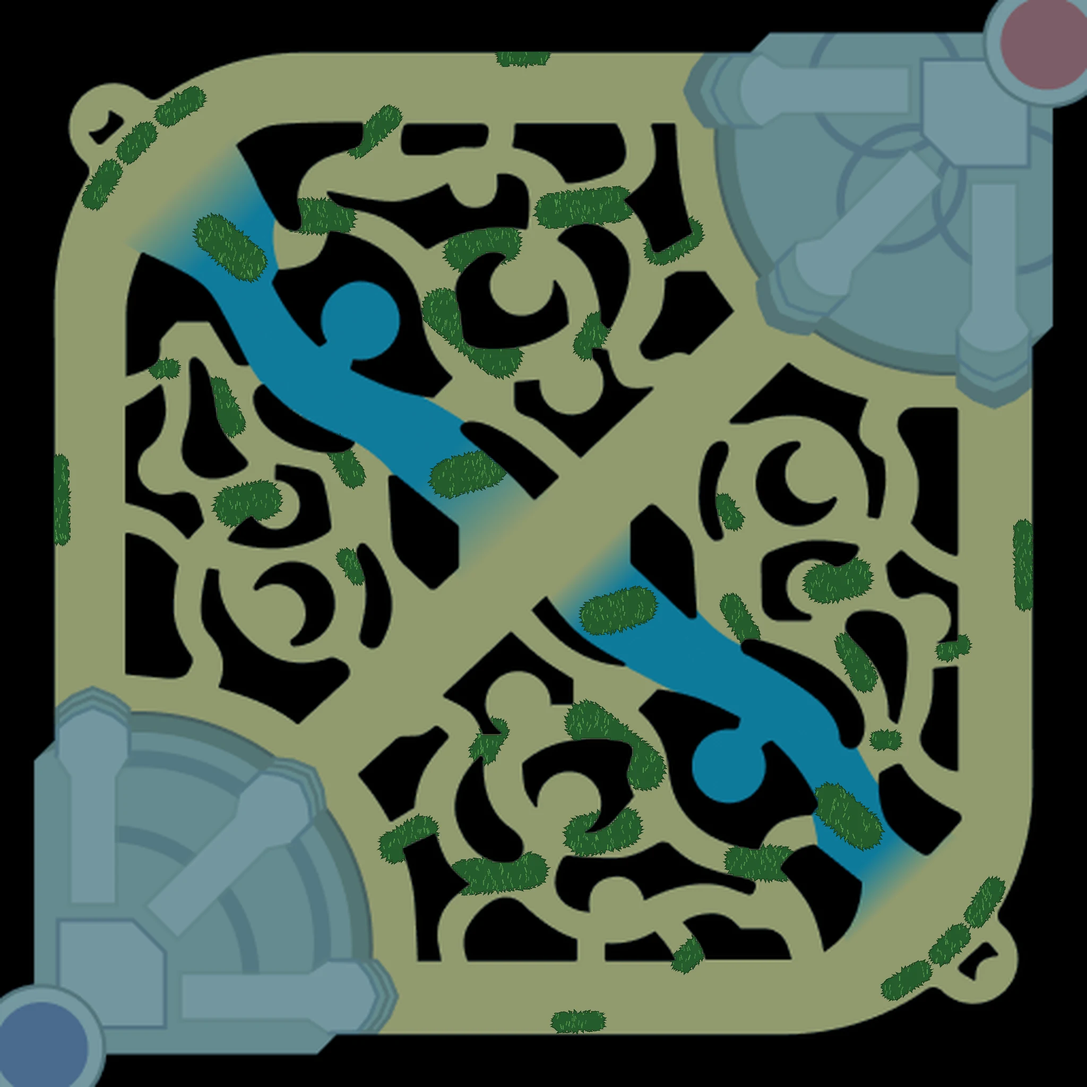
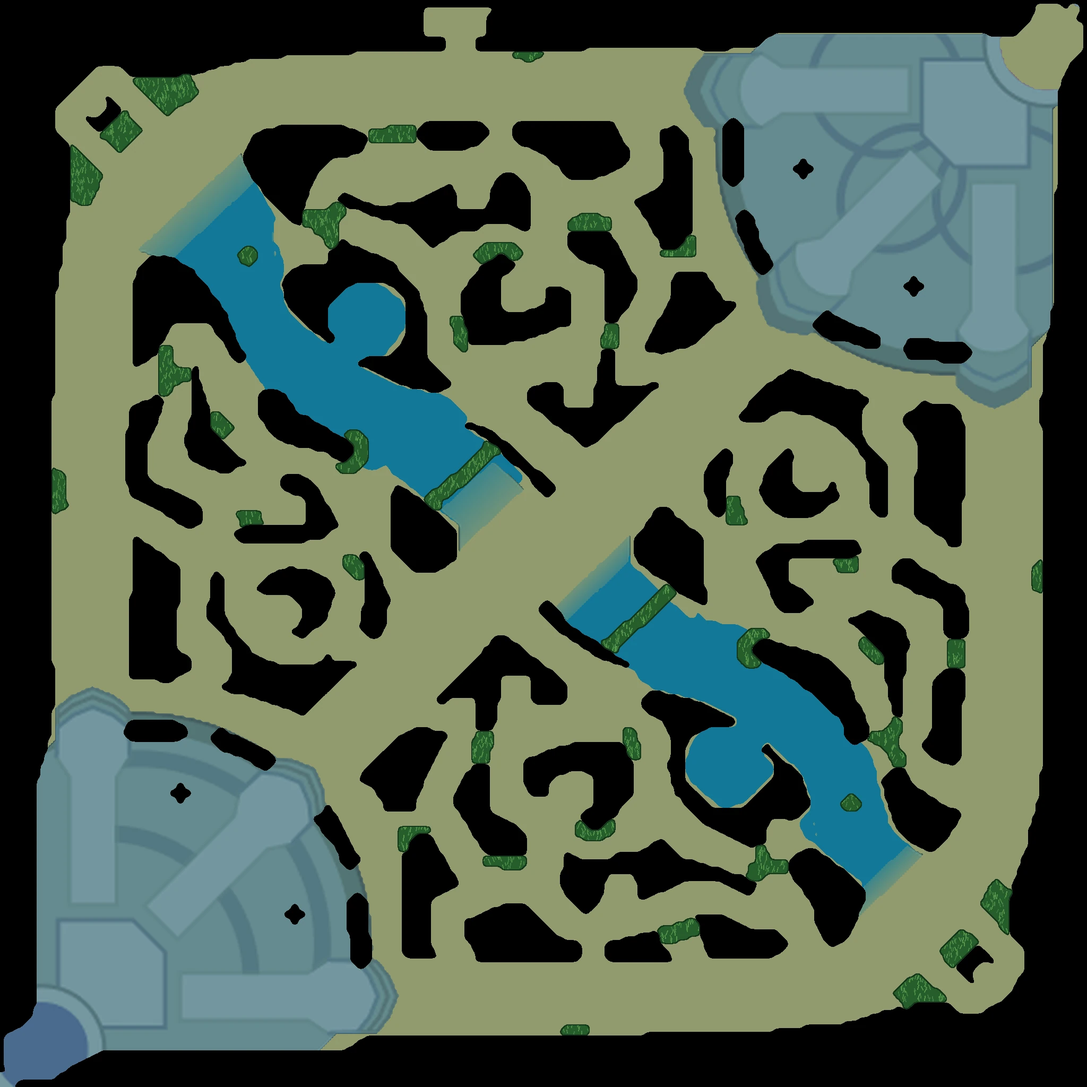
Publish draft board 2026-11-18 14:51 KST

diff --git a/draft/js/vision.js b/draft/js/vision.js
@@ -1,8 +1,8 @@
 // 시야 공부 자료 — 출처: Destiny(데스티니) 「와드 강의 【2026년 최신판】」 https://www.youtube.com/watch?v=ipObXSCeb-8 (5분 49초)
 // 11-18 두 번째 점검: 영상 1080p 화면에서 미니맵 카메라 상자(자동 판독)와 화면 속 와드·커서 위치를 맞춰 자리를 다시 잼.
 //  - 판독 기준: 영상 미니맵의 포탑 6개를 공식 위치에 맞춰 보정(오차 약 1%), 화면 1% ≈ 69px, 가장자리는 원근 보정.
-//  - 맵 그림: img/map-sr.webp = 공식 미니맵(map11) + 부쉬 39개. 부쉬 자리는 리그 위키 부쉬 위치도(2024),
-//    모양은 Riot 풀 색 텍스처(grasstint_srx)에서 방향·길이를 잰 뒤 맵 대칭으로 평균, 바텀·탑 코너 3개는 영상 기준 손 보정. 만드는 법: tools/map-bushes/
+//  - 맵 그림: img/map-sr.webp = 게임 실제 이동·시야 격자(AIPath_SRX_3 내비게이션 그리드, 칸 하나 = 게임 거리 50)의 벽·부쉬·강을 그대로 그린 것.
+//    격자 출처: FrankTheBoxMonster/LoL-NGRID-converter SR_2024(시즌 14 맵 개편판). 기지 그림만 공식 미니맵(map11). 만드는 법: tools/map-bushes/
 //  - 게임 속 시각은 영상에서 정확히 확인된 것이 아니면 숫자로 쓰지 않고 말로 쓴다.
 //  - 레드 진영 변형은 영상에서 확인하지 못해 뺐다(영상 설명대로 "레드는 반대편 같은 원리"만 글로).
 // 좌표: 미니맵 가로·세로 %. 블루 진영 기준. 거리: 맵 1% ≈ 148(게임 거리). 와드 시야 900 ≈ 6%.
@@ -23,12 +23,12 @@ window.VISION = {
   ],
   // 자리(번호) — 모두 영상 장면에서 잰 자리(오차 1~2%)
   spots: [
-    { id: 1, x: 87.2, y: 86.1, name: "바텀 코너 작은 1자 부쉬(강 쪽)" },
-    { id: 2, x: 68, y: 78.9, name: "바텀 삼거리 부쉬 왼쪽 구석" },
-    { id: 3, x: 59.3, y: 63.9, name: "우리 칼날부리 입구" },
+    { id: 1, x: 87.5, y: 86.5, name: "바텀 코너 작은 1자 부쉬(강 쪽)" },
+    { id: 2, x: 69.2, y: 79.7, name: "바텀 삼거리 부쉬 왼쪽 구석" },
+    { id: 3, x: 59, y: 63.8, name: "우리 칼날부리 입구" },
     { id: 4, x: 67.5, y: 57.1, name: "용 위쪽 요정 시야 자리" },
     { id: 9, x: 77.3, y: 72.8, name: "용 아래쪽 요정 시야 자리" },
-    { id: 11, x: 69.9, y: 55.9, name: "요정 자리 옆 벽 뒤" },
+    { id: 11, x: 69.5, y: 60.3, name: "요정 자리 아래 갈고리 부쉬 안쪽" },
     { id: 6, x: 50.4, y: 53.4, name: "미드 아래쪽 강 입구(낚시 와드)" },
     { id: 10, x: 60.8, y: 61.4, name: "용 가는 길목(상대 핑크에 안 보이는 자리)" },
     { id: 7, x: 68.1, y: 37.5, name: "상대 정글 깊은 와드" },
@@ -48,8 +48,8 @@ window.VISION = {
       text: "용 아래쪽 강의 요정 시야 자리. 박으면 용 둘레 강이 넓게 보인다. 위쪽 자리와 둘 중 하나." },
     { spot: 3, when: "첫 귀환(첫 집) 때 — 우리가 뒤지고 상대가 칼날부리 카정을 노릴 때", t: 81, phase: "back", tag: "def", type: "ctrl", roles: ["S", "J"], go: ["u3", 2], title: "첫 귀환 제어 와드 — 뒤질 때",
       text: "뒤질 때는 우리 칼날부리를 지키는 입구에 박는다. 앞선 상대는 칼날부리 카정을 자주 온다." },
-    { spot: 11, when: "라인전 이후 대치 — 상대가 요정 시야 자리에 제어 와드를 박았을 때", t: 142, phase: "mid", tag: "agg", type: "ward", roles: ["S"], go: ["u4", 0], title: "요정 시야와 벽 — 상대 핑크에 안 보이는 와드",
-      text: "상대가 요정 자리에 박은 제어 와드는 벽에 가린 바로 옆 와드를 못 본다. 이 점을 이용해 낚시한다. 부쉬 와드는 양 끝이 다 보이도록 중간쯤까지 깊숙이 박는다." },
+    { spot: 11, when: "라인전 이후 대치 — 상대가 요정 시야 자리에 제어 와드를 박았을 때", t: 142, phase: "mid", tag: "agg", type: "ward", roles: ["S"], go: ["u4", 0], title: "요정 자리 핑크에 안 보이는 와드",
+      text: "상대가 요정 자리에 박은 제어 와드는 부쉬 밖에 있어서, 바로 아래 갈고리 부쉬 안쪽(벽에 붙은 쪽) 와드를 못 본다 — 부쉬 밖에서는 부쉬 안이 안 보인다. 이 점을 이용해 낚시한다. 부쉬 와드는 양 끝이 다 보이도록 중간쯤까지 깊숙이 박는다." },
     { spot: 6, when: "라인전 이후 대치 — 블루로 뒤질 때(레드는 반대편)", t: 203, phase: "mid", tag: "agg", type: "ward", roles: ["S"], go: ["u4", 2], title: "뒤질 때 낚시 와드",
       text: "상대는 보통 강 1자 부쉬에 핑크를 박고 그 뒤에서 그랩을 기다린다. 블루일 때 뒤지면 미드 아래쪽 강 입구에 와드 — 그 핑크에 안 보이고 기다리는 상대가 보인다. 높은 티어일수록 잘 먹힌다." },
     { spot: 10, when: "오브젝트 싸움 직전 — 불리해서 길을 뚫기 어려울 때", t: 244, phase: "obj", tag: "obj", type: "ward", roles: ["S", "J"], go: ["u5", 0], title: "불리한 오브젝트 싸움 — 진입로 와드",
@@ -72,33 +72,33 @@ window.VISION = {
         a: { sup: { c: "Nautilus", s: "us", at: [82, 90.8], via: [[14, 86], [40, 91.5]] }, adc: { c: "Kaisa", s: "us", at: [79, 91.5], via: [[13, 88], [40, 92]], d: 0.3 } } },
       { t: 21, cap: "코너 작은 1자 부쉬에 와드", say: "바텀 코너 안쪽에 부쉬가 3개 있습니다. 아래 부쉬 끝까지 걸어가서, 가운데 작은 1자 부쉬의 강 쪽에 박습니다. 부쉬 밖으로 나가지 않으니 안전합니다.", cam: [85, 86, 20],
         a: { sup: { c: "Nautilus", s: "us", at: [85, 89], via: [[83.4, 90.4]] }, adc: { c: "Kaisa", s: "us", at: [79, 91.5] } },
-        w: { w1: { at: [87.2, 86.1], k: "ward", s: "us", d: 1.1 } }, l: [{ at: [90.4, 88.6], t: "작은 1자 부쉬", d: 0.4 }] },
+        w: { w1: { at: [87.5, 86.5], k: "ward", s: "us", d: 1.1 } }, l: [{ at: [90.4, 88.6], t: "작은 1자 부쉬", d: 0.4 }] },
       { t: 23, cap: "상대가 오는 길을 보고 → 라인으로 돌아가 견제", say: "와드 시야로 상대 바텀 듀오가 들어오는 것을 확인하고, 바로 라인으로 돌아가 견제합니다.", cam: [86, 85, 22],
         a: { sup: { c: "Nautilus", s: "us", at: [82, 90.8], d: 0.9 }, adc: { c: "Kaisa", s: "us", at: [79, 91.5] }, zeri: { c: "Zeri", s: "them", at: [90.4, 80.6], via: [[93, 70]] }, lulu: { c: "Lulu", s: "them", at: [89.2, 82.2], via: [[92, 72]], d: 0.2 } },
-        w: { w1: { at: [87.2, 86.1], k: "ward", s: "us" } } },
+        w: { w1: { at: [87.5, 86.5], k: "ward", s: "us" } } },
       { t: 26, cap: "「강 가운데에 박으면 더 많이 보이지 않나?」", say: "가운데까지 박으면 상대가 돌아오는 길이 더 보이는 건 맞습니다. 하지만 두 가지 문제가 있습니다.", cam: [84, 83, 24],
         a: { sup: { c: "Nautilus", s: "us", at: [82, 90.8] }, adc: { c: "Kaisa", s: "us", at: [79, 91.5] }, zeri: { c: "Zeri", s: "them", at: [90.4, 80.6] }, lulu: { c: "Lulu", s: "them", at: [89.2, 82.2] } },
-        w: { w1: { at: [87.2, 86.1], k: "ward", s: "us" }, w2: { at: [81, 80.5], k: "ward", s: "us", ghost: 1, d: 0.4 } }, l: [{ at: [81, 77.5], t: "강 가운데", d: 0.4 }] },
+        w: { w1: { at: [87.5, 86.5], k: "ward", s: "us" }, w2: { at: [81, 80.5], k: "ward", s: "us", ghost: 1, d: 0.4 } }, l: [{ at: [81, 77.5], t: "강 가운데", d: 0.4 }] },
       { t: 39, cap: "문제 ① 원거리 챔프에 바로 지워진다", say: "제리처럼 사거리가 긴 상대는 라인에서 조금만 걸어 나와 가운데 와드를 바로 지웁니다.", cam: [84, 83, 24],
         a: { sup: { c: "Nautilus", s: "us", at: [82, 90.8] }, adc: { c: "Kaisa", s: "us", at: [79, 91.5] }, zeri: { c: "Zeri", s: "them", at: [85, 79.6] }, lulu: { c: "Lulu", s: "them", at: [89.2, 82.2] } },
-        w: { w1: { at: [87.2, 86.1], k: "ward", s: "us" }, w2: { at: [81, 80.5], k: "ward", s: "us", ghost: 1, x: 1, d: 1.3 } }, p: [{ pts: [[90.4, 80.6], [85, 79.6]], k: "them" }], l: [{ at: [81, 77.3], t: "바로 지워짐", k: "bad", d: 1.4 }] },
+        w: { w1: { at: [87.5, 86.5], k: "ward", s: "us" }, w2: { at: [81, 80.5], k: "ward", s: "us", ghost: 1, x: 1, d: 1.3 } }, p: [{ pts: [[90.4, 80.6], [85, 79.6]], k: "them" }], l: [{ at: [81, 77.3], t: "바로 지워짐", k: "bad", d: 1.4 }] },
       { t: 47, cap: "문제 ② 박으러 나가다 3:2 인베에 잡힌다", say: "가운데에 박으려면 부쉬 밖 강으로 나가야 합니다. 2:2면 괜찮지만 상대 정글까지 3명이 오면 거기서 죽습니다.", cam: [82, 82, 26],
         a: { sup: { c: "Nautilus", s: "us", at: [81.6, 81.6], via: [[84, 86]] }, adc: { c: "Kaisa", s: "us", at: [79, 91.5] }, zeri: { c: "Zeri", s: "them", at: [84.4, 80.4], d: 0.6 }, lulu: { c: "Lulu", s: "them", at: [84, 82.6], d: 0.6 }, jg: { c: "MonkeyKing", s: "them", at: [80.3, 79.6], via: [[75.5, 71]], d: 0.5 } },
         p: [{ pts: [[75.5, 71], [78.5, 76], [80.3, 79.6]], k: "them", d: 0.5 }], hit: [{ at: [81.6, 81.6], d: 1.9 }], l: [{ at: [79, 84.6], t: "3:2 — 잡힘", k: "bad", d: 2 }] },
       { t: 51, cap: "그래서 코너 작은 1자 부쉬", say: "부쉬 안에서 안전하게 박을 수 있고 잘 지워지지 않습니다. 이 와드로 강에서 오는 적을 미리 봅니다. 레드 진영도 같은 원리(반대편)입니다.", cam: [85, 86, 20],
         a: { sup: { c: "Nautilus", s: "us", at: [82, 90.8] }, adc: { c: "Kaisa", s: "us", at: [79, 91.5] } },
-        w: { w1: { at: [87.2, 86.1], k: "ward", s: "us" } }, l: [{ at: [87.2, 83.2], t: "여기", k: "good", d: 0.3 }] },
+        w: { w1: { at: [87.5, 86.5], k: "ward", s: "us" } }, l: [{ at: [87.5, 83.6], t: "여기", k: "good", d: 0.3 }] },
     ] },
     { id: "u2", title: "라인전 제어 와드", goal: "삼거리 부쉬 왼쪽 구석에 박는다", lessons: [101], drills: ["w4", "w4b"], scenes: [
       { t: 101, cap: "라인전 제어 와드는 삼거리 부쉬 왼쪽 구석", say: "어디에 박든 상대가 지우는 건 같습니다. 차이는 지우러 오는 길이 얼마나 위험하냐입니다.", cam: [74, 84, 24],
         a: { sup: { c: "Blitzcrank", s: "us", at: [77.5, 90] }, adc: { c: "Kaisa", s: "us", at: [75.5, 91.4] }, xayah: { c: "Xayah", s: "them", at: [84.5, 91] }, lulu: { c: "Lulu", s: "them", at: [86, 89.6] } },
-        w: { p1: { at: [68, 78.9], k: "ctrl", s: "us", d: 0.5 } }, l: [{ at: [70.4, 76], t: "삼거리 부쉬", d: 0.3 }] },
+        w: { p1: { at: [69.2, 79.7], k: "ctrl", s: "us", d: 0.5 } }, l: [{ at: [70.4, 76], t: "삼거리 부쉬", d: 0.3 }] },
       { t: 112, cap: "부쉬 입구 쪽에 박으면", say: "상대 원딜이 몇 걸음만 들어와 쉽게 지우고 돌아갑니다.", cam: [74, 84, 24],
         a: { sup: { c: "Blitzcrank", s: "us", at: [77.5, 90] }, adc: { c: "Kaisa", s: "us", at: [75.5, 91.4] }, xayah: { c: "Xayah", s: "them", at: [73.8, 82.7] }, lulu: { c: "Lulu", s: "them", at: [86, 89.6] } },
         w: { p2: { at: [71.6, 79.6], k: "ctrl", s: "us", ghost: 1, x: 1, d: 1.4 } }, p: [{ pts: [[84.5, 91], [78.5, 86.5], [73.8, 82.7]], k: "them" }], l: [{ at: [71.6, 76.8], t: "쉽게 지움", k: "bad", d: 1.5 }] },
       { t: 114, cap: "왼쪽 구석에 박으면", say: "지우려면 우리 쪽 깊숙이 들어와야 합니다. 그 사이에 그랩이나 딜교환을 당합니다.", cam: [72, 83, 24],
-        a: { sup: { c: "Blitzcrank", s: "us", at: [73, 86.3] }, adc: { c: "Kaisa", s: "us", at: [75.5, 91.4] }, xayah: { c: "Xayah", s: "them", at: [69.6, 80.8], via: [[84.5, 91], [76, 85.5]] }, lulu: { c: "Lulu", s: "them", at: [86, 89.6] } },
-        w: { p1: { at: [68, 78.9], k: "ctrl", s: "us" } }, p: [{ pts: [[73, 86.3], [69.6, 80.8]], k: "us", d: 1.6 }], hit: [{ at: [69.6, 80.8], d: 2 }], l: [{ at: [68.8, 84], t: "그랩!", k: "good", d: 2.1 }] },
+        a: { sup: { c: "Blitzcrank", s: "us", at: [73, 86.3] }, adc: { c: "Kaisa", s: "us", at: [75.5, 91.4] }, xayah: { c: "Xayah", s: "them", at: [69.6, 80.8], via: [[84.5, 91], [75, 86]] }, lulu: { c: "Lulu", s: "them", at: [86, 89.6] } },
+        w: { p1: { at: [69.2, 79.7], k: "ctrl", s: "us" } }, p: [{ pts: [[73, 86.3], [69.6, 80.8]], k: "us", d: 1.6 }], hit: [{ at: [69.6, 80.8], d: 2 }], l: [{ at: [68.8, 84], t: "그랩!", k: "good", d: 2.1 }] },
     ] },
     { id: "u3", title: "첫 귀환 제어 와드", goal: "앞설 때·뒤질 때 자리를 구분한다", lessons: [72, 81], drills: ["w2", "w3"], scenes: [
       { t: 64, cap: "이번 시즌: 요정 시야", say: "강에 요정 시야 자리가 생겼습니다. 이 자리에 와드를 박으면 주변이 넓게 보입니다. 그래서 첫 귀환 때 제어 와드 1개를 꼭 삽니다.", cam: [70, 64, 32],
@@ -108,26 +108,26 @@ window.VISION = {
         w: { f1: { at: [67.5, 57.1], k: "ctrl", s: "us", r: 7, d: 1.5 }, f2: { at: [77.3, 72.8], k: "ctrl", s: "us", ghost: 1, d: 1.8 } },
         z: [{ k: "fairy", at: [67.5, 57.1], rx: 2.2, ry: 1.6 }, { k: "fairy", at: [77.3, 72.8], rx: 2.2, ry: 1.6 }], l: [{ at: [77.3, 76], t: "또는 여기", d: 1.9 }] },
       { t: 81, cap: "뒤질 때: 우리 칼날부리 입구", say: "상대가 앞서면 칼날부리 카정을 자주 옵니다. 이때는 요정 자리까지 가지 말고 칼날부리를 지키는 입구에 박습니다.", cam: [58, 61, 30],
-        a: { sup: { c: "Nautilus", s: "us", at: [57.5, 65.5] }, jg: { c: "MonkeyKing", s: "them", at: [61, 61], via: [[71, 54]], d: 1.2 } },
-        w: { r1: { at: [59.3, 63.9], k: "ctrl", s: "us", d: 0.4 } }, p: [{ pts: [[71, 54], [66, 57], [61, 61], [52, 62]], k: "them", d: 1.2 }],
+        a: { sup: { c: "Nautilus", s: "us", at: [57.5, 65.5] }, jg: { c: "MonkeyKing", s: "them", at: [61, 61], via: [[70.3, 54.3]], d: 1.2 } },
+        w: { r1: { at: [59, 63.8], k: "ctrl", s: "us", d: 0.4 } }, p: [{ pts: [[70.3, 54.3], [66, 57], [61, 61], [52, 62]], k: "them", d: 1.2 }],
         l: [{ at: [48, 59], t: "칼날부리", d: 0.2 }, { at: [63.6, 55], t: "카정 오는 게 보임", k: "good", d: 2.2 }] },
       { t: 92, cap: "정리", say: "유리하면 요정 시야 자리, 불리하면 칼날부리 입구. 레드 진영은 반대편 같은 원리입니다.", cam: [66, 63, 34],
-        w: { f1: { at: [67.5, 57.1], k: "ctrl", s: "us" }, r1: { at: [59.3, 63.9], k: "ctrl", s: "us" } }, l: [{ at: [71, 54.4], t: "앞설 때", k: "good" }, { at: [56, 67], t: "뒤질 때", k: "good" }] },
+        w: { f1: { at: [67.5, 57.1], k: "ctrl", s: "us" }, r1: { at: [59, 63.8], k: "ctrl", s: "us" } }, l: [{ at: [71, 54.4], t: "앞설 때", k: "good" }, { at: [56, 67], t: "뒤질 때", k: "good" }] },
     ] },
     { id: "u4", title: "요정 시야와 낚시", goal: "상대 핑크에 안 보이는 와드를 쓴다", lessons: [142, 203], drills: ["w6", "w5"], scenes: [
-      { t: 142, cap: "상대가 요정 자리에 제어 와드를 박았을 때", say: "제어 와드도 벽 너머는 못 봅니다. 요정 자리 바로 옆이라도 벽에 가린 곳에 박은 와드는 그 핑크에 안 보입니다. 부쉬 와드는 양 끝이 다 보이게 중간쯤까지 깊게 박습니다.", cam: [68, 56, 20],
-        w: { e1: { at: [67.5, 57.1], k: "ctrl", s: "them", d: 0.2 }, o1: { at: [69.9, 55.9], k: "ward", s: "us", d: 1 } }, l: [{ at: [71.4, 53], t: "핑크에 안 보임(벽 뒤)", k: "good", d: 1.2 }] },
+      { t: 142, cap: "상대가 요정 자리에 제어 와드를 박았을 때", say: "제어 와드는 부쉬 밖에서 부쉬 안을 못 봅니다. 요정 자리 핑크는 부쉬 밖이라, 바로 아래 갈고리 부쉬 안쪽(벽에 붙은 쪽)에 박은 와드는 그 핑크에 안 보입니다. 부쉬 와드는 양 끝이 다 보이게 중간쯤까지 깊게 박습니다.", cam: [68.5, 58.5, 16],
+        w: { e1: { at: [67.5, 57.1], k: "ctrl", s: "them", d: 0.2 }, o1: { at: [69.5, 60.3], k: "ward", s: "us", d: 1 } }, l: [{ at: [72.6, 62.6], t: "핑크에 안 보임(부쉬 안쪽)", k: "good", d: 1.2 }] },
       { t: 191, cap: "상대가 자주 하는 것: 1자 부쉬 핑크 + 그랩 대기", say: "상대 서폿은 보통 강 1자 부쉬에 핑크를 박고, 그 뒤에서 그랩을 던지려고 기다립니다.", cam: [56, 56, 22],
-        a: { esup: { c: "Blitzcrank", s: "them", at: [55.2, 54.6], via: [[64, 52]], d: 0.6 } }, w: { e6: { at: [58, 56.7], k: "ctrl", s: "them", d: 0.2 } }, l: [{ at: [58, 59.6], t: "강 1자 부쉬 핑크", k: "bad", d: 0.3 }] },
+        a: { esup: { c: "Blitzcrank", s: "them", at: [55.2, 54.6], via: [[65.3, 52]], d: 0.6 } }, w: { e6: { at: [59.4, 56.5], k: "ctrl", s: "them", d: 0.2 } }, l: [{ at: [59.4, 59.6], t: "강 1자 부쉬 핑크", k: "bad", d: 0.3 }] },
       { t: 203, cap: "블루로 뒤질 때: 미드 아래쪽 강 입구에 와드", say: "이 와드는 1자 부쉬 핑크에 안 보이고, 그랩을 기다리는 상대는 보입니다. 높은 티어일수록 잘 먹힙니다. 레드는 반대편.", cam: [54, 55, 22],
-        a: { esup: { c: "Blitzcrank", s: "them", at: [55.2, 54.6] } }, w: { e6: { at: [58, 56.7], k: "ctrl", s: "them" }, o6: { at: [50.4, 53.4], k: "ward", s: "us", d: 0.8 } },
+        a: { esup: { c: "Blitzcrank", s: "them", at: [55.2, 54.6] } }, w: { e6: { at: [59.4, 56.5], k: "ctrl", s: "them" }, o6: { at: [50.4, 53.4], k: "ward", s: "us", d: 0.8 } },
         l: [{ at: [50.4, 50.6], t: "핑크에 안 보임", k: "good", d: 1 }, { at: [55.2, 52], t: "대기 보임", k: "good", d: 1.5 }] },
     ] },
     { id: "u5", title: "깊은 와드·오브젝트", goal: "라인을 밀었을 때와 불리한 오브젝트 싸움의 와드", lessons: [244, 286, 306, 315], drills: ["w7", "w5"], scenes: [
       { t: 244, cap: "불리한 오브젝트 싸움 — 진입로 와드", say: "상대가 요정 자리에 핑크를 박았으면, 그 핑크에 안 보이는 길목에 와드를 박습니다. 상대가 정글을 거치지 않고 곧장 오는 길이 보입니다.", cam: [64, 60, 26],
         w: { e1: { at: [67.5, 57.1], k: "ctrl", s: "them" }, o10: { at: [60.8, 61.4], k: "ward", s: "us", d: 0.6 } }, p: [{ pts: [[70, 50], [64, 57], [62, 64]], k: "them", d: 1 }], l: [{ at: [60.8, 64.6], t: "핑크에 안 보임", k: "good", d: 0.8 }] },
       { t: 286, cap: "라인을 밀었으면 상대 정글 깊숙이", say: "바텀 라인을 밀어 깊게 들어갈 수 있으면 이 자리. 상대 정글과 미드 합류 길이 다 보이고, 보통 박는 핑크 자리에서는 안 보입니다. 옆 길목 와드도 많이 박습니다.", cam: [70, 44, 30],
-        a: { sup: { c: "Nautilus", s: "us", at: [68.6, 40.2], via: [[80, 84], [74, 60]] } }, w: { o7: { at: [68.1, 37.5], k: "ward", s: "us", d: 1.6 }, o12: { at: [73.5, 48.6], k: "ward", s: "us", d: 2.2 } }, l: [{ at: [68.1, 34.6], t: "깊은 와드", k: "good", d: 1.7 }, { at: [77.5, 48.6], t: "길목 와드", k: "good", d: 2.3 }] },
+        a: { sup: { c: "Nautilus", s: "us", at: [68.6, 40.2], via: [[80, 84], [74.5, 59.5]] } }, w: { o7: { at: [68.1, 37.5], k: "ward", s: "us", d: 1.6 }, o12: { at: [73.5, 48.6], k: "ward", s: "us", d: 2.2 } }, l: [{ at: [68.1, 34.6], t: "깊은 와드", k: "good", d: 1.7 }, { at: [77.5, 48.6], t: "길목 와드", k: "good", d: 2.3 }] },
       { t: 306, cap: "요즘 '크랙' 제어 와드", say: "요즘 높은 티어에서 많이 박는 상대 칼날부리 쪽 제어 와드 자리입니다. 영상에서 시점 언급은 없습니다.", cam: [76, 58, 24],
         w: { c1: { at: [78.9, 56], k: "ctrl", s: "us", d: 0.4 } } },
       { t: 315, cap: "1레벨 와드(예전 정석)", say: "1레벨 인베가 올 때 렌즈를 돌리며 들어와도 이 와드는 안 지워져 들어오는 길이 보였습니다. 요즘은 1레벨 인베가 적어 덜 중요합니다.", cam: [53, 58, 26],
@@ -157,8 +157,8 @@ window.VISION = {
       note: "상대 정글 위치 모름 — 3:2 인베가 올 수도 있다.",
       q: "바텀에 도착하자마자 첫 와드를 박을 곳은?",
       opts: [{ x: 81, y: 80.5, t: "강 한가운데", why: "원거리 챔프(제리 등)에 바로 지워지고, 박으러 부쉬 밖으로 나가다 3:2 인베에 잡힌다" },
-             { x: 87.2, y: 86.1, t: "코너 작은 1자 부쉬(강 쪽)", why: "부쉬 안에서 안전하게 박을 수 있고 잘 안 지워진다 — 강에서 오는 적이 보인다", ok: true },
-             { x: 68, y: 78.9, t: "삼거리 부쉬 왼쪽 구석", why: "라인전 중 제어 와드 자리 — 첫 와드는 강 입구를 본다" }] },
+             { x: 87.5, y: 86.5, t: "코너 작은 1자 부쉬(강 쪽)", why: "부쉬 안에서 안전하게 박을 수 있고 잘 안 지워진다 — 강에서 오는 적이 보인다", ok: true },
+             { x: 69.2, y: 79.7, t: "삼거리 부쉬 왼쪽 구석", why: "라인전 중 제어 와드 자리 — 첫 와드는 강 입구를 본다" }] },
     { id: "w1b", kind: "choice", cat: "와드", src: 39, title: "강 가운데 와드의 문제", time: "게임 시작 직후", obj: "",
       when: "바텀 도착 직후, 첫 와드를 어디에 박을지 고를 때",
       us: [["Nautilus", 1, "시작템"], ["Kaisa", 1, "시작템"]], them: [["Zeri", 1, "시작템"], ["Lulu", 1, "시작템"], ["MonkeyKing", 1, "정글 · 위치 모름"]],
@@ -172,8 +172,8 @@ window.VISION = {
       note: "바텀 2킬 앞섬. 첫 귀환으로 제어 와드를 샀다.",
       q: "제어 와드를 박을 곳은?",
       opts: [{ x: 67.5, y: 57.1, t: "용 위쪽 요정 시야 자리", why: "앞설 때 정답 — 요정 시야 자리를 먼저 차지(용 아래쪽 요정 자리도 같은 답)", ok: true },
-             { x: 59.3, y: 63.9, t: "우리 칼날부리 입구", why: "뒤질 때 자리 — 앞설 땐 앞으로" },
-             { x: 87.2, y: 86.1, t: "코너 작은 1자 부쉬", why: "라인전 첫 와드 자리 — 제어 와드는 요정 시야에" },
+             { x: 59, y: 63.8, t: "우리 칼날부리 입구", why: "뒤질 때 자리 — 앞설 땐 앞으로" },
+             { x: 87.5, y: 86.5, t: "코너 작은 1자 부쉬", why: "라인전 첫 와드 자리 — 제어 와드는 요정 시야에" },
              { x: 51.1, y: 60, t: "칼날부리 위쪽 길", why: "1레벨 와드 자리" }] },
     { id: "w3", kind: "map", cat: "와드", src: 81, title: "첫 귀환 · 뒤질 때", time: "첫 귀환 직후", obj: "상대 정글 앞섬", when: "첫 귀환 직후 라인으로 돌아가는 길",
       pos: { us: [["Nautilus", 59, 75.8], ["Kaisa", 70.5, 89.9]], them: [["Xayah", 88, 80], ["Lulu", 88, 84], ["MonkeyKing", 70, 46]] },
@@ -181,17 +181,17 @@ window.VISION = {
       note: "바텀 2킬 뒤짐. 상대 정글이 앞서 있다.",
       q: "제어 와드를 박을 곳은?",
       opts: [{ x: 67.5, y: 57.1, t: "용 위쪽 요정 시야 자리", why: "앞설 때 자리 — 뒤질 때 가면 잡힌다" },
-             { x: 59.3, y: 63.9, t: "우리 칼날부리 입구", why: "앞선 상대는 칼날부리 카정을 자주 온다 — 지키는 자리", ok: true },
+             { x: 59, y: 63.8, t: "우리 칼날부리 입구", why: "앞선 상대는 칼날부리 카정을 자주 온다 — 지키는 자리", ok: true },
              { x: 68.1, y: 37.5, t: "상대 정글 깊은 와드", why: "뒤질 때 깊게 가면 위험" },
-             { x: 68, y: 78.9, t: "삼거리 부쉬 왼쪽 구석", why: "라인전 제어 와드 자리" }] },
+             { x: 69.2, y: 79.7, t: "삼거리 부쉬 왼쪽 구석", why: "라인전 제어 와드 자리" }] },
     { id: "w4", kind: "map", cat: "와드", src: 101, title: "라인전 제어 와드", time: "라인전 중", obj: "", when: "바텀 라인전 중, 제어 와드를 들고 있을 때",
       pos: { us: [["Kaisa", 75.5, 91.4], ["Blitzcrank", 77.5, 90]], them: [["Xayah", 84.5, 91], ["Lulu", 86, 89.6]] },
       us: [["Blitzcrank", 4, "시작템"], ["Kaisa", 4, "장검"]], them: [["Xayah", 4, "장검"], ["Lulu", 4, "시작템"]],
       note: "그랩 서폿(블리츠크랭크). 삼거리 부쉬에 제어 와드를 박는다.",
       q: "어디에 박아야 상대가 지우러 올 때 손해를 볼까?",
       opts: [{ x: 71.6, y: 79.6, t: "삼거리 부쉬 입구 쪽", why: "상대 원딜이 몇 걸음만 들어와 쉽게 지운다" },
-             { x: 68, y: 78.9, t: "삼거리 부쉬 왼쪽 구석", why: "상대 원딜이 깊이 들어와야 지움 → 그랩·딜교환 각", ok: true },
-             { x: 59.3, y: 63.9, t: "우리 칼날부리 입구", why: "라인과 멀다 — 첫 귀환 뒤 뒤질 때 자리" }] },
+             { x: 69.2, y: 79.7, t: "삼거리 부쉬 왼쪽 구석", why: "상대 원딜이 깊이 들어와야 지움 → 그랩·딜교환 각", ok: true },
+             { x: 59, y: 63.8, t: "우리 칼날부리 입구", why: "라인과 멀다 — 첫 귀환 뒤 뒤질 때 자리" }] },
     { id: "w4b", kind: "choice", cat: "와드", src: 114, title: "구석 핑크의 이득", time: "라인전 중", obj: "",
       when: "삼거리 부쉬 왼쪽 구석에 제어 와드를 박아 둔 뒤",
       us: [["Blitzcrank", 5, "서폿템"], ["Kaisa", 5, "장검"]], them: [["Xayah", 5, "장검"], ["Lulu", 5, "서폿템"]],
@@ -211,7 +211,7 @@ window.VISION = {
       us: [["Blitzcrank", 9, "서폿템"], ["Kaisa", 9, "1코어"]], them: [["Blitzcrank", 10, "서폿템 · 그랩 대기"], ["Xayah", 11, "2코어"]],
       note: "블루 진영, 뒤지는 중. 상대는 강 1자 부쉬에 핑크를 박고 그 뒤에서 그랩을 기다린다.",
       q: "상대 핑크에 안 보이게 낚시 와드를 박을 곳은?",
-      opts: [{ x: 58, y: 56.7, t: "강 1자 부쉬(상대 핑크 옆)", why: "상대 핑크가 있는 곳 — 바로 보인다" },
+      opts: [{ x: 59.4, y: 56.5, t: "강 1자 부쉬(상대 핑크 옆)", why: "상대 핑크가 있는 곳 — 바로 보인다" },
              { x: 50.4, y: 53.4, t: "미드 아래쪽 강 입구", why: "상대 핑크에 안 보이고 그랩 대기 위치가 보인다", ok: true },
              { x: 67.5, y: 57.1, t: "용 위쪽 요정 자리", why: "뒤질 때 거기까지 박으러 가면 잡힌다" }] },
     { id: "w7", kind: "map", cat: "와드", src: 286, title: "라인전 중 깊은 와드", time: "라인전 중", obj: "바텀 라인 밀어 둠", when: "바텀 라인전 중, 라인을 밀어 둔 뒤",
@@ -221,7 +221,7 @@ window.VISION = {
       q: "상대 정글·미드 합류를 보려면?",
       opts: [{ x: 68.1, y: 37.5, t: "상대 정글 깊은 자리", why: "정글·미드 합류 길이 다 보이고 보통 핑크 자리에서 안 보인다", ok: true },
              { x: 67.5, y: 57.1, t: "용 위쪽 요정 자리", why: "상대 핑크에 바로 보인다" },
-             { x: 87.2, y: 86.1, t: "코너 작은 1자 부쉬", why: "라인 근처 — 깊은 정보는 없다" }] },
+             { x: 87.5, y: 86.5, t: "코너 작은 1자 부쉬", why: "라인 근처 — 깊은 정보는 없다" }] },
     { id: "f1", kind: "choice", cat: "한타", title: "4:5 용 싸움", time: "용 나오기 직전", obj: "말파이트 탑에 있음",
       us: [["Kaisa", 11, "1코어"], ["Nautilus", 11, "서폿템"], ["Nunu", 11, "2코어"], ["Orianna", 12, "2코어"], ["Malphite", 11, "2코어 · 탑에 있음 · 텔 없음"]],
       them: [["Xayah", 12, "2코어"], ["Lulu", 11, "서폿템"], ["MonkeyKing", 12, "2코어"], ["Hwei", 12, "2코어"], ["Rumble", 12, "2코어"]],

diff --git a/draft/index.html b/draft/index.html
@@ -10,7 +10,7 @@
   <link rel="preconnect" href="https://fonts.googleapis.com">
   <link rel="preconnect" href="https://fonts.gstatic.com" crossorigin>
   <link rel="stylesheet" href="https://fonts.googleapis.com/css2?family=Chakra+Petch:wght@600;700&display=swap">
-  <link rel="stylesheet" href="css/app.css?v=44">
+  <link rel="stylesheet" href="css/app.css?v=45">
 </head>
 <body>
   <header class="top">
@@ -41,15 +41,15 @@
   <datalist id="champList"></datalist>
   <input type="file" id="file" accept="application/json" hidden>
   <footer>챔피언 이미지·이름: Riot Games Data Dragon. 이 사이트는 Riot Games가 보증하거나 후원하지 않습니다. 카운터·조합 판단은 참고용입니다.</footer>
-  <script src="js/config.js?v=44"></script>
-  <script src="js/champions.js?v=44"></script>
-  <script src="js/teams.js?v=44"></script>
-  <script src="js/recent.js?v=44"></script>
-  <script src="js/pro.js?v=44"></script>
-  <script src="js/meta.js?v=44"></script>
-  <script src="js/knowledge.js?v=44"></script>
-  <script src="js/vision.js?v=44"></script>
-  <script src="js/engine.js?v=44"></script>
-  <script src="js/app.js?v=44"></script>
+  <script src="js/config.js?v=45"></script>
+  <script src="js/champions.js?v=45"></script>
+  <script src="js/teams.js?v=45"></script>
+  <script src="js/recent.js?v=45"></script>
+  <script src="js/pro.js?v=45"></script>
+  <script src="js/meta.js?v=45"></script>
+  <script src="js/knowledge.js?v=45"></script>
+  <script src="js/vision.js?v=45"></script>
+  <script src="js/engine.js?v=45"></script>
+  <script src="js/app.js?v=45"></script>
 </body>
 </html>

diff --git a/draft/js/app.js b/draft/js/app.js
@@ -743,7 +743,7 @@
 
   // ---------- 시야 공부: 배우기(애니메이션 장면) · 한눈에 보기(자리 요약) · 문제 모음 ----------
   // 맵 그림: 공식 미니맵 + 부쉬(img/map-sr.webp, 만드는 법 tools/map-bushes/)
-  const MAP_IMG = () => (window.VISION && window.VISION.map ? window.VISION.map + "?v=44" : `https://ddragon.leagueoflegends.com/cdn/${window.DDRAGON_VERSION}/img/map/map11.png`);
+  const MAP_IMG = () => (window.VISION && window.VISION.map ? window.VISION.map + "?v=45" : `https://ddragon.leagueoflegends.com/cdn/${window.DDRAGON_VERSION}/img/map/map11.png`);
   const vseg = (act, cur, items, label) => `<div class="seg" role="group" aria-label="${label}">${items.map(([v, n]) => `<button data-act="${act}" data-v="${v}" aria-pressed="${cur === v}">${n}</button>`).join("")}</div>`;
   // 레드 진영 좌표: 강을 기준으로 뒤집되, 뒤집으면 강·벽에 걸리는 자리는 따로 잰 rx·ry
   function redXY(x, y) {
